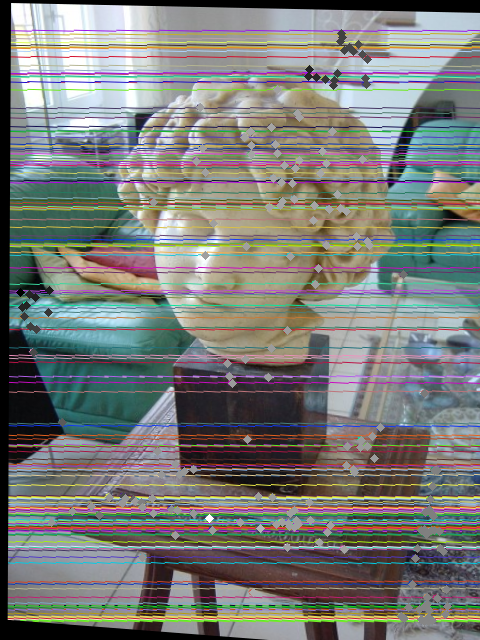
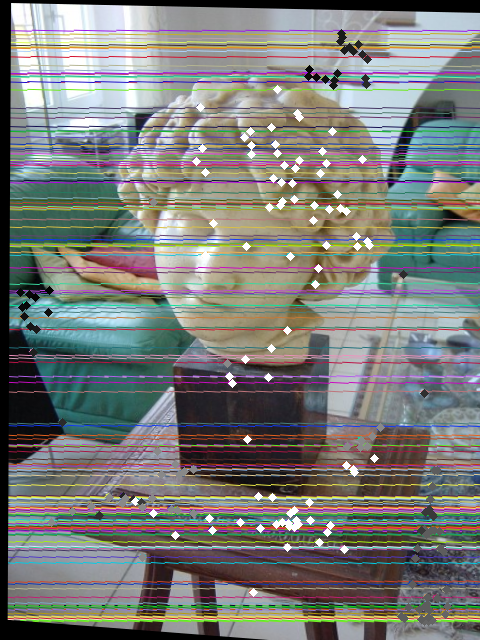
Finished histogram equalization.
Next: OpenGL

diff --git a/Stereo Vision/StereoPair.cpp b/Stereo Vision/StereoPair.cpp
@@ -93,6 +93,7 @@ namespace sv {
             dMin = dMin < d ? dMin : d;
         }
 
+        /* Reverse the disparity for Depth */
         float zMin = 1e10f, zMax = -1e10f;
         for (int i = 0; i < length; ++i) {
             float d = mSparseDisparity[i];
@@ -103,16 +104,34 @@ namespace sv {
             zMax = zMax > z ? zMax : z;
         }
 
+        /* Rescale the color map */
+        const int colorTabLen = 256;
+        const float colorGap = 1.0f / colorTabLen;
+        int colorMap[colorTabLen] = {0};
+
         float scale = zMax - zMin;
         for (int i = 0; i < length; ++i) {
             float z = (mSparseDisparity[i] - zMin) / scale;
+            mSparseDisparity[i] = z;
+            colorMap[(int)floor(z / colorGap)] ++;
+
             Point3f pt = Point3f(l->matchedPoints()[i].x, l->matchedPoints()[i].y, z);
             pointCloud().pushPoint(pt);
+        }
 
-            double color = (1 - (cbrt(sqrt(z)))) * 255;
-            cout << z << " " << color << endl;
-            circle(l->rectifiedImg(), l->matchedPoints()[i], 2, cv::Scalar(color, color, color), 4);
-            circle(r->rectifiedImg(), r->matchedPoints()[i], 2, cv::Scalar(color, color, color), 4);
+        /* Histogram equalization map */
+        float sum = 0;
+        for (int j = 0; j < colorTabLen; ++j) {
+            float color = colorMap[j];
+            colorMap[j] = (1 - sum) * colorTabLen;
+            sum += color / length;
+        }
+
+        /* Draw the final map */
+        for (int i = 0; i < length; ++i) {
+            int color = colorMap[(int)floor(mSparseDisparity[i] / colorGap)];
+            circle(l->rectifiedImg(), l->matchedPoints()[i], 2, cv::Scalar(color, color, color), 3);
+            circle(r->rectifiedImg(), r->matchedPoints()[i], 2, cv::Scalar(color, color, color), 3);
         }
 
         imwrite(resPath + "rectify-L.png", l->rectifiedImg());

diff --git a/Stereo Vision/StereoView.cpp b/Stereo Vision/StereoView.cpp
@@ -54,6 +54,7 @@ namespace sv {
         double minX, minY, maxX, maxY;
         cv::minMaxLoc(X, &minX, &maxX);
         cv::minMaxLoc(Y, &minY, &maxY);
+        /* Attach offset for better displaying */
         T = H * (cv::Mat_<double>(3, 3) << 1, 0, -minX, 0, 1, -minY, 0, 0, 1);
 
         /* Transform the matched feature points to the new plane */
@@ -71,7 +72,4 @@ namespace sv {
         cv::warpPerspective(mEpiImg, mRectifiedImg, H, size);
         //drawMatchedPoints(mRectifiedImg, palette);
     }
-
-
-
 }
